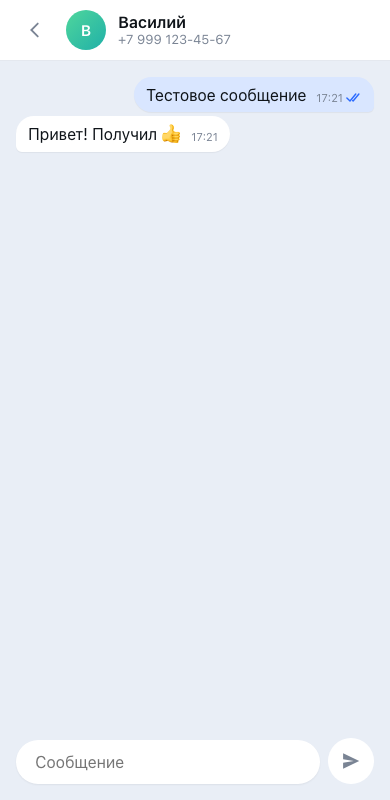
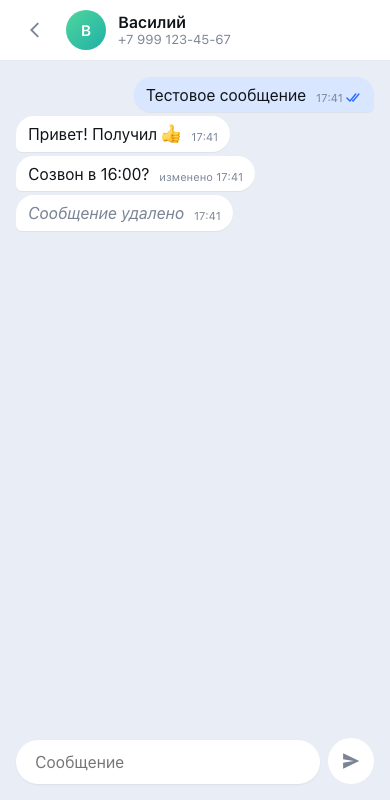
Чаты сами создаются только для личных сообщений
Аккаунт состоит в группах, и их поток засорял список. Сообщение из
незнакомой группы теперь пропускается; уже открытый чат обновляется.
E2E: правка/удаление проверяются в личном чате.

diff --git a/src/state/chats.test.ts b/src/state/chats.test.ts
@@ -7,6 +7,7 @@ const incoming = (id: string, text: string, chatId = '100', chatName = 'Вася
   kind: 'message',
   chatId,
   chatName,
+  group: false,
   message: { id, text, direction: 'in', timestamp: 1 },
 })
 
@@ -24,6 +25,7 @@ describe('parseNotification', () => {
       kind: 'message',
       chatId: '10000000',
       chatName: 'Vasilisa',
+      group: false,
       message: { id: '126543123451133331119', text: 'Hello from Green-API!', direction: 'in', timestamp: 1763115112 },
     })
   })
@@ -85,6 +87,13 @@ describe('chatsReducer', () => {
     expect(s.chats['200']).toMatchObject({ title: 'Петя', unread: 1 })
   })
 
+  it('сообщение из незнакомой группы чат не создаёт, в уже открытую — добавляется', () => {
+    const fromGroup = { ...incoming('g', 'флуд', '-100500', 'Группа'), group: true } as ChatEvent
+    expect(chatsReducer(emptyState, { type: 'event', event: fromGroup })).toBe(emptyState)
+    const open = chatsReducer(emptyState, { type: 'open', id: '-100500', title: 'Группа' })
+    expect(chatsReducer(open, { type: 'event', event: fromGroup }).chats['-100500'].messages).toHaveLength(1)
+  })
+
   it('в открытом чате непрочитанные не копятся, имя заменяет номер', () => {
     const s = chatsReducer(opened, { type: 'event', event: incoming('a', 'привет') })
     expect(s.chats['100']).toMatchObject({ title: 'Вася', unread: 0 })
@@ -102,7 +111,7 @@ describe('chatsReducer', () => {
     s = chatsReducer(s, { type: 'sendDone', chatId: '100', tempId: 't1', id: 'srv' })
     s = chatsReducer(s, {
       type: 'event',
-      event: { kind: 'message', chatId: '100', message: { id: 'srv', text: 'hi', direction: 'out', timestamp: 0, status: 'sent' } },
+      event: { kind: 'message', chatId: '100', group: false, message: { id: 'srv', text: 'hi', direction: 'out', timestamp: 0, status: 'sent' } },
     })
     expect(s.chats['100'].messages).toEqual([{ id: 'srv', text: 'hi', direction: 'out', timestamp: 0, status: 'sent' }])
   })
@@ -111,7 +120,7 @@ describe('chatsReducer', () => {
     let s = chatsReducer(opened, { type: 'sendStart', chatId: '100', tempId: 't1', text: 'hi', now: 0 })
     s = chatsReducer(s, {
       type: 'event',
-      event: { kind: 'message', chatId: '100', message: { id: 'srv', text: 'hi', direction: 'out', timestamp: 0, status: 'sent' } },
+      event: { kind: 'message', chatId: '100', group: false, message: { id: 'srv', text: 'hi', direction: 'out', timestamp: 0, status: 'sent' } },
     })
     s = chatsReducer(s, { type: 'sendDone', chatId: '100', tempId: 't1', id: 'srv' })
     expect(s.chats['100'].messages.map((m) => m.id)).toEqual(['srv'])

diff --git a/src/state/chats.ts b/src/state/chats.ts
@@ -84,6 +84,9 @@ export function chatsReducer(state: ChatsState, action: ChatsAction): ChatsState
         return withChat(state, { ...existing, messages })
       }
 
+      // сам по себе чат появляется только для личной переписки: аккаунт может состоять в десятках
+      // групп, и их поток забил бы список. Уже открытый групповой чат продолжает обновляться.
+      if (!existing && ev.group) return state
       const chat = existing ?? newChat(ev.chatId)
       // первое входящее с именем заменяет заголовок-номер на имя собеседника
       const rename = !chat.named && !!ev.chatName

diff --git a/src/api/notifications.ts b/src/api/notifications.ts
@@ -16,7 +16,7 @@ export type Message = {
 }
 
 export type ChatEvent =
-  | { kind: 'message'; chatId: string; chatName?: string; message: Message }
+  | { kind: 'message'; chatId: string; chatName?: string; group: boolean; message: Message }
   | { kind: 'status'; chatId: string; id: string; status: MessageStatus }
   | { kind: 'edit'; chatId: string; id: string; text: string }
   | { kind: 'delete'; chatId: string; id: string }
@@ -72,6 +72,7 @@ export function parseNotification(body: unknown): ChatEvent | null {
         kind: 'message',
         chatId: String(chatId),
         chatName: incoming ? sd.chatName || sd.senderName || undefined : undefined,
+        group,
         message: {
           id: String(b.idMessage),
           text,

diff --git a/README.md b/README.md
@@ -18,9 +18,9 @@
    Enter отправляет, Shift+Enter переносит строку.
 4. Получение через [HTTP API](https://green-api.com/v3/docs/api/receiving/technology-http-api/):
    long-poll `ReceiveNotification` (таймаут 20 с) → обработка → `DeleteNotification`.
-   Ответ собеседника появляется в ленте. Если пишет новый собеседник, его чат создаётся сам.
+   Ответ собеседника появляется в ленте. Если в личку пишет новый собеседник, его чат создаётся сам; сообщения из групп, где состоит аккаунт, список не засоряют.
 5. Мелочи, без которых чат выглядит сломанным: галочки статусов (отправлено / доставлено /
-   прочитано), счётчик непрочитанных, имя автора во входящих из групп, имя собеседника из Telegram
+   прочитано), счётчик непрочитанных, имя собеседника из Telegram
    вместо номера, правка сообщений в Telegram (текст обновляется, пометка «изменено») и удаление
    (остаётся пометка «Сообщение удалено»), индикатор «нет связи» с переподключением, мобильная
    раскладка, тёмная тема по системной настройке.
@@ -90,6 +90,6 @@ src/
 
 ## Скриншоты
 
-| Вход | Чат | Группа | Телефон |
+| Вход | Чат | Правка и удаление | Телефон |
 |---|---|---|---|
-| ![Вход](docs/1-login.png) | ![Чат](docs/2-chat.png) | ![Группа](docs/4-group.png) | ![Телефон](docs/3-mobile.png) |
+| ![Вход](docs/1-login.png) | ![Чат](docs/2-chat.png) | ![Правка и удаление](docs/4-edit.png) | ![Телефон](docs/3-mobile.png) |
